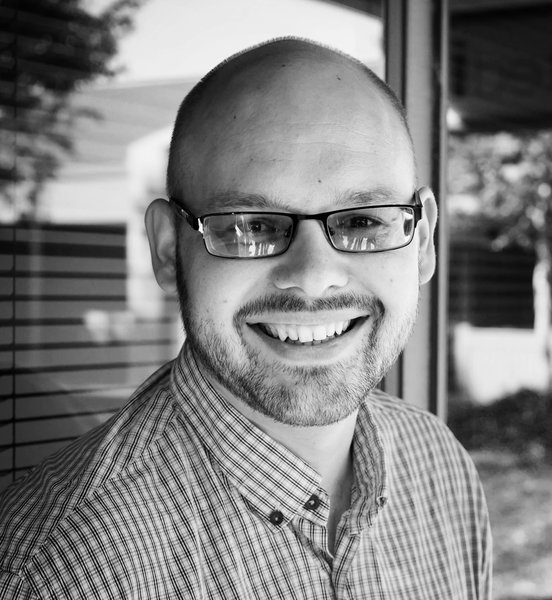
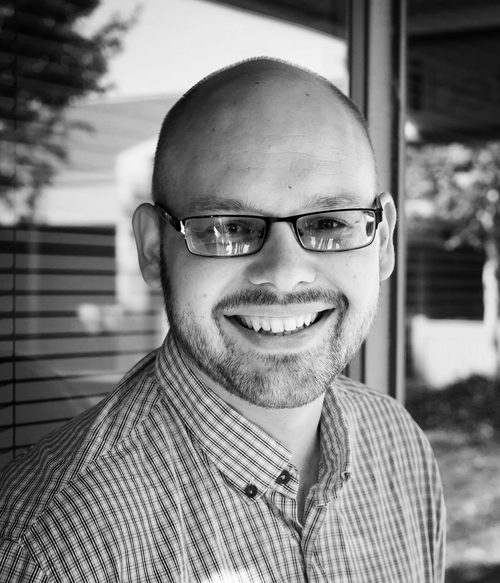
changed bg image, resized team members imgs, added x button to the modal divs

diff --git a/client/index.html b/client/index.html
@@ -102,7 +102,7 @@
     <!-- Video Modal -->
 
     <div class="modal fade" id="videoModal" role="dialog" tabindex='-1'>
-      <button type="button" class="close outline" data-dismiss="modal" style='color:white; padding-top: 1.5%; padding-right: 2%;'><span class="glyphicon glyphicon-remove gi-1-5x"></span></button>
+      <button type="button" class="close outline" data-dismiss="modal"><img src="/images/close.png" alt=""></button>
       <div class="modal-video">
         <div class="video-container" style='background-color:green'>
           <iframe src="//www.youtube.com/embed/tgQ60Gz31so" frameborder="0" class="video" allowfullscreen></iframe>
@@ -115,7 +115,7 @@
 
     <div class="modal fade " id="myModal" role="dialog" tabindex='-1'>
       <div class="modal-dialog modal-lg container text-center">
-        <button type="button" class="close outline" data-dismiss="modal" style='color:white; padding-top: 1.5%; padding-right: 2%;'><span class="glyphicon glyphicon-remove gi-1-5x"></span></button>
+        <button type="button" class="close outline" data-dismiss="modal"><img src="/images/close.png" alt=""></button>
             <ul id='menu_list'>
               <div class="dropdown">
                 <li>
@@ -345,7 +345,7 @@ marketing, and 5% for legal purposes.</p>
       <div class="flip-container col-md-4 section-margin" ontouchstart="this.classList.toggle('hover');">
         <div class="flipper">
           <div class="member-section box-shadow front">
-            <div id='vic' class='member-img'></div>
+            <div id='victor' class='member-img'></div>
             <div class="member-title">
               <h3>Victor Park</h3>
               <h4>Front-End/Ui Web Developer</h4>

diff --git a/client/assets/styles/main_styles.css b/client/assets/styles/main_styles.css
@@ -299,6 +299,17 @@ li > .page-scroll:hover:before {
 
 .outline{
   outline: 0;
+  color:white;
+  /*padding-top: 1.5%;
+  padding-right: 2%;*/
+  height: 10vw;
+  width: 10vw;
+  margin-top: 5vw;
+  margin-right: 5vw;
+}
+
+.outline > img{
+  height: 80%;
 }
 
 .whitepaper_menu{
@@ -338,6 +349,13 @@ li > .page-scroll:hover:before {
 }
 
 @media (min-width: 568px) {
+  .outline{
+    margin-top: 1vw;
+    margin-right: 3vw;
+    height: 5vw;
+    width: 5vw;
+  }
+
   .navbar-brand>img{
     height: 50%;
   }
@@ -376,6 +394,13 @@ li > .page-scroll:hover:before {
 }
 
 @media (min-width: 768px) {
+  .outline{
+    margin-top: 2vw;
+    margin-right: 3vw;
+    height: 3vw;
+    width: 3vw;
+  }
+
   #menu_list {
      padding-top: 10%;
   }
@@ -437,8 +462,7 @@ li > .page-scroll:hover:before {
   /*padding: 100px 0;*/
   text-align: center;
   color: #333333;
-  background: url(/images/intro-bg-4.jpg) no-repeat bottom center scroll;
-  /*opacity: 0.5;*/
+  background: url(/images/intro-bg-new.jpg) no-repeat bottom center scroll;
   -webkit-background-size: cover;
   -moz-background-size: cover;
   background-size: cover;
@@ -470,13 +494,13 @@ li > .page-scroll:hover:before {
 
 .intro-body{
   background-color: lightgrey;
-  background: rgba(255, 255, 255, 0.2);
+  background: rgba(255, 255, 255, 0.4);
 }
 
 .intro-footer{
   display: table-footer-group;
   background-color: lightgrey;
-  background: rgba(255, 255, 255, 0.2);
+  background: rgba(255, 255, 255, 0.4);
 }
 
 .glyphicon-menu-down{

diff --git a/client/assets/styles/flip.css b/client/assets/styles/flip.css
@@ -86,28 +86,35 @@
 
 #robert{
   background: url(/images/robert_schneider.jpg) 0 0 no-repeat;
+  background-size: cover;
 }
 
 #earl{
   background: url(/images/earl_halderman.jpg) 0 0 no-repeat;
+  background-size: cover;
 }
 
 #evgenii{
   background: url(/images/evgeniy_ovsiannikov.jpg) 0 0 no-repeat;
+  background-size: cover;
 }
 
 #ydel{
   background: url(/images/ydel_jiang.jpg) 0 0 no-repeat;
+  background-size: cover;
 }
 
 #alex{
   background: url(/images/alex_chupin.jpg) 0 0 no-repeat;
+  background-size: cover;
 }
 
 #connie{
   background: url(/images/connie_chu.jpg) 0 0 no-repeat;
+  background-size: cover;
 }
 
 #victor{
   background: url(/images/victor_pak.jpg) 0 0 no-repeat;
+  background-size: cover;
 }
